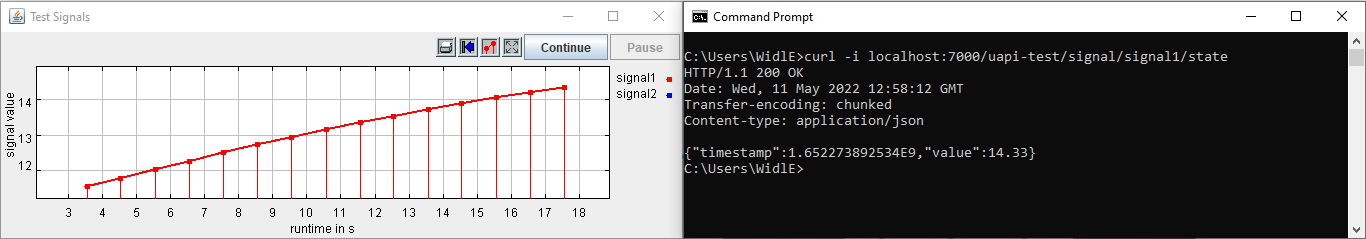
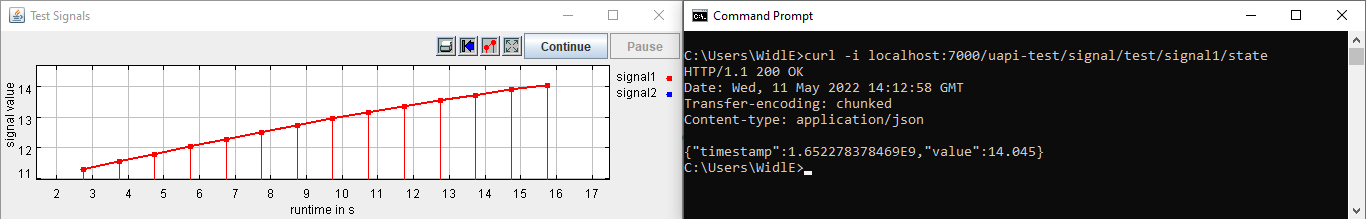
add configurable datapoint names for signals

diff --git a/src/main/java/at/ac/ait/lablink/clients/universalapiclient/UniversalApiClient.java b/src/main/java/at/ac/ait/lablink/clients/universalapiclient/UniversalApiClient.java
@@ -100,6 +100,7 @@ public class UniversalApiClient {
 
   // Tags for input configuration.
   protected static final String SIGNAL_CONFIG_TAG = "Signals";
+  protected static final String SIGNAL_DPNAME_TAG = "DPName";
   protected static final String SIGNAL_ID_TAG = "Id";
   protected static final String SIGNAL_SOURCE_TAG = "Source";
   protected static final String SIGNAL_WRITABLE_TAG = "Writable";
@@ -464,6 +465,11 @@ public class UniversalApiClient {
     while ( signalConfigListIter.hasNext() ) {
       JSONObject signalConfig = (JSONObject) signalConfigListIter.next();
 
+      // Datapoint name corresponding to signal.
+      String dpName = ConfigUtil.<String>getRequiredConfigParam( signalConfig,
+          SIGNAL_DPNAME_TAG, String.format( "Datapoint name of signal missing (%1$s)",
+          SIGNAL_DPNAME_TAG ) );
+
       // SignalId of signal.
       String signalId = ConfigUtil.<String>getRequiredConfigParam( signalConfig,
           SIGNAL_ID_TAG, String.format( "Id of signal missing (%1$s)",
@@ -480,7 +486,7 @@ public class UniversalApiClient {
       boolean readable = ConfigUtil.getOptionalConfigParam( signalConfig,
           SIGNAL_READABLE_TAG, true );
 
-      signals.put( signalId, new Signal( signalId, sourceId, writable, readable ) );
+      signals.put( signalId, new Signal( dpName, signalId, sourceId, writable, readable ) );
     }
   }
 
@@ -500,7 +506,7 @@ public class UniversalApiClient {
       Signal signal = entry.getValue();
 
       // Data service name.
-      String serviceName = signalName;
+      String serviceName = signal.getDataPointName();
 
       // Data service description.
       String serviceDesc = "data service for signal " + signalName;

diff --git a/src/main/java/at/ac/ait/lablink/clients/universalapiclient/universalapi/Signal.java b/src/main/java/at/ac/ait/lablink/clients/universalapiclient/universalapi/Signal.java
@@ -19,15 +19,21 @@ public class Signal {
   /** Signal state. */
   private SignalState state;
 
+  /** Datapoint name corresponding to the signal. */
+  private String dataPointName;
+
   /** 
    * Constructor.
    *
+   * @param dpn datapoint name corresponding to the signal
    * @param id SignalId
    * @param source NodeId
    * @param writable This flag indicates if the signal can be written
    * @param readable This flag indicates if the signal can be read
    */
-  public Signal( String id, String source, boolean writable, boolean readable ) {
+  public Signal( String dpn, String id, String source, 
+      boolean writable, boolean readable ) {
+    this.dataPointName = dpn;
     this.description = new SignalDescription( id, source, writable, readable );
     this.state = new SignalState();
   }
@@ -48,6 +54,15 @@ public class Signal {
    */
   public SignalState getState() {
     return this.state;
+  }
+
+  /**
+   * Retrieve the datapoint name.
+   *
+   * @return datapoint name
+   */
+  public String getDataPointName() {
+    return this.dataPointName;
   }
 
 }

diff --git a/src/main/java/at/ac/ait/lablink/clients/universalapiclient/UniversalApiClientRestInterface.java b/src/main/java/at/ac/ait/lablink/clients/universalapiclient/UniversalApiClientRestInterface.java
@@ -116,7 +116,7 @@ public class UniversalApiClientRestInterface {
         try {
           // Set the new value. This also triggers an update of the signal 
           // state via the associated state change notifier.
-          uapiClient.setServiceValue( id, updateState.getValue() );
+          uapiClient.setServiceValue( signal.getDataPointName(), updateState.getValue() );
 
           // The previous call updated the timestamp of the signal to the
           // current system time. The following lines overwrite this 

diff --git a/docs/examples.rst b/docs/examples.rst
@@ -2,7 +2,7 @@ About
 =====
 
 The `online repository <https://github.com/AIT-Lablink/lablink-universal-api-client>`_ of the Lablink Universal Data Exchange API client includes a simlpe example demonstrating its use.
-This example comprises a simple REST API implementing the `ERIGrid Universal Data Exchange API <https://erigrid2.github.io/JRA-3.1-api/universal-api.html>`_, which exposes a readable signal (``signal1``) and a writable signal (``signal2``).
+This example comprises a simple REST API implementing the `ERIGrid Universal Data Exchange API <https://erigrid2.github.io/JRA-3.1-api/universal-api.html>`_, which exposes a readable signal (``test/signal1``) and a writable signal (``test/signal2``).
 The readable signal is continuously updated from another data source (a `Lablink CSV reader <https://ait-lablink.readthedocs.io/projects/ait-lablink-csv-client>`_) and its current value can be retrieved by the user (e.g., using ``curl`` from the command prompt).
 The writable signal can be changed by the user (e.g., using ``curl`` from the command prompt).
 When running the example, both signals are visualized using a plotter.
@@ -47,7 +47,7 @@ This script does the following things:
 3. Run the Lablink clients, i.e., the Universal API client, the CSV reader client (which acts as data source) and the plotter client.
 
 For each started client, a new command prompt window should appear, printing debug information about the client's status.
-The Universal API client should continuously receive data from the CSV reader, which updates the value of signal ``signal1`` once per second.
+The Universal API client should continuously receive data from the CSV reader, which updates the value of signal ``test/signal1`` once per second.
 You can check this by looking at the Universal API client's command prompt window, where you should see debug information for each new value.
 This should look similar to the following:
 
@@ -58,32 +58,59 @@ This should look similar to the following:
    15:15:16.528 [pool-2-thread-1] DEBUG LlServiceBase - Service [signal1]: state changed from [13.346] to [13.536]!
    15:15:16.533 [pool-2-thread-1] DEBUG LlServiceBase - Notifying to the [1] registered listener...
    15:15:16.540 [pool-2-thread-1] INFO  UniversalApiClientDataNotifier - signal1: notifier -> state Changed from '13.346' to '13.536'
-   15:15:16.540 [pool-2-thread-1] DEBUG MqttDataPointDouble - For datapoint [data service for signal signal1], the value is updated to [13.536].
+   15:15:16.540 [pool-2-thread-1] DEBUG MqttDataPointDouble - For datapoint [data service for signal test/signal1], the value is updated to [13.536].
    ...
 
 
-Retrieve a signal value
------------------------
+List all available signals
+--------------------------
 
-In this example, the Universal API client has two signals: ``signal1`` is a read-only signal, ``signal2`` is a write-only signal.
-Once the client is running, you can retrieve the latest value of ``signal1``.
+In this example, the Universal API client has two signals: 
+
+* ``test/signal1`` is a read-only signal
+* ``test/signal2`` is a write-only signal.
+
+You can retrieve this information directly from the client.
 There are various ways of retrieving data from REST interfaces, one way is using ``curl`` (which is by default already included on recent versions of Windows).
 Use ``curl`` directly from the command prompt (``cmd.exe``): 
 
 .. code-block:: winbatch
 
-   curl -i localhost:7000/uapi-test/signal/signal1/state
+   curl -i localhost:7000/uapi-test/signals
 
-This will return the API's response status (*200* in case of success) and the current value (state) of ``signal1``, for instance:
+
+This will return the API's response status (*200* in case of success) and the list of available signals:
 
 .. code-block:: winbatch
 
    HTTP/1.1 200 OK
-   Date: Wed, 11 May 2022 12:58:12 GMT
+   Date: Wed, 11 May 2022 14:06:12 GMT
+   Transfer-encoding: chunked
+   Content-type: application/json
+
+   [{"id":"test/signal2","source":"test2-source","writable":true,"readable":false},{"id":"test/signal1","source":"test1-source","writable":false,"readable":true}]
+
+
+Retrieve a signal value
+-----------------------
+
+Once the client is running, you can retrieve the latest value of ``test/signal1``.
+To do so, you can use ``curl`` directly from the command prompt (``cmd.exe``): 
+
+.. code-block:: winbatch
+
+   curl -i localhost:7000/uapi-test/signal/test/signal1/state
+
+This will return the API's response status (*200* in case of success) and the current value (state) of ``test/signal1``, for instance:
+
+.. code-block:: winbatch
+
+   HTTP/1.1 200 OK
+   Date: Wed, 11 May 2022 14:12:58 GMT
    Transfer-encoding: chunked
    Content-type: application/json
    
-   {"timestamp":1.65227389253E9,"value":14.33}
+   {"timestamp":1.652278378469E9,"value":14.05}
 
 The returned value should agree with the latest value as visualized by the plotter.
 
@@ -95,23 +122,23 @@ The returned value should agree with the latest value as visualized by the plott
 Set a signal value
 ------------------
 
-The Universal API client also has a write-only signal called ``signal2``.
+The Universal API client also has a write-only signal called ``test/signal2``.
 There are various ways of updating data through a REST interfaces, one way is again with the help of ``curl``.
 Use ``curl`` directly from the command prompt (``cmd.exe``): 
 
 .. code-block:: winbatch
 
-   curl -i -X PUT -H "Content-Type: application/json" -d "{"""timestamp""":123.456,"""value""":10}" localhost:7000/uapi-test/signal/signal2/state
+   curl -i -X PUT -H "Content-Type: application/json" -d "{"""timestamp""":123.456,"""value""":13}" localhost:7000/uapi-test/signal/test/signal2/state
 
 This will return the API's response status (*200* in case of success):
 
 .. code-block:: winbatch
 
    HTTP/1.1 200 OK
-   Date: Wed, 11 May 2022 13:08:17 GMT
+   Date: Wed, 11 May 2022 14:16:31 GMT
    Content-length: 0
 
-The new value for ``signal2`` should also be visualized by the plotter.
+The new value for ``test/signal2`` should also be visualized by the plotter.
 
 .. image:: img/example_write_signal_value.png
    :align: center

diff --git a/docs/configuration.rst b/docs/configuration.rst
@@ -46,7 +46,8 @@ Signal Configuration
 
 .. topic:: Required configuration parameters for each signal defined in category *Signals*
 
-  :*Id*: SignalId of data exchange signal
+  :*DPName*: datapoint name of Lablink service associated to signal (must not contain dashes ``/``)
+  :*Id*: SignalId of data exchange signal (may contain dashes ``/``)
   :*Source*: NodeId of data exchange signal source
   
 .. topic:: Optional configuration parameters for each input/output in category *Signals*

diff --git a/docs/index.rst b/docs/index.rst
@@ -60,3 +60,4 @@ Version history
 ===============
 
 :0.0.1: initial version
+:0.0.2: do not use SignalId as datapoint name for associated Lablink service
